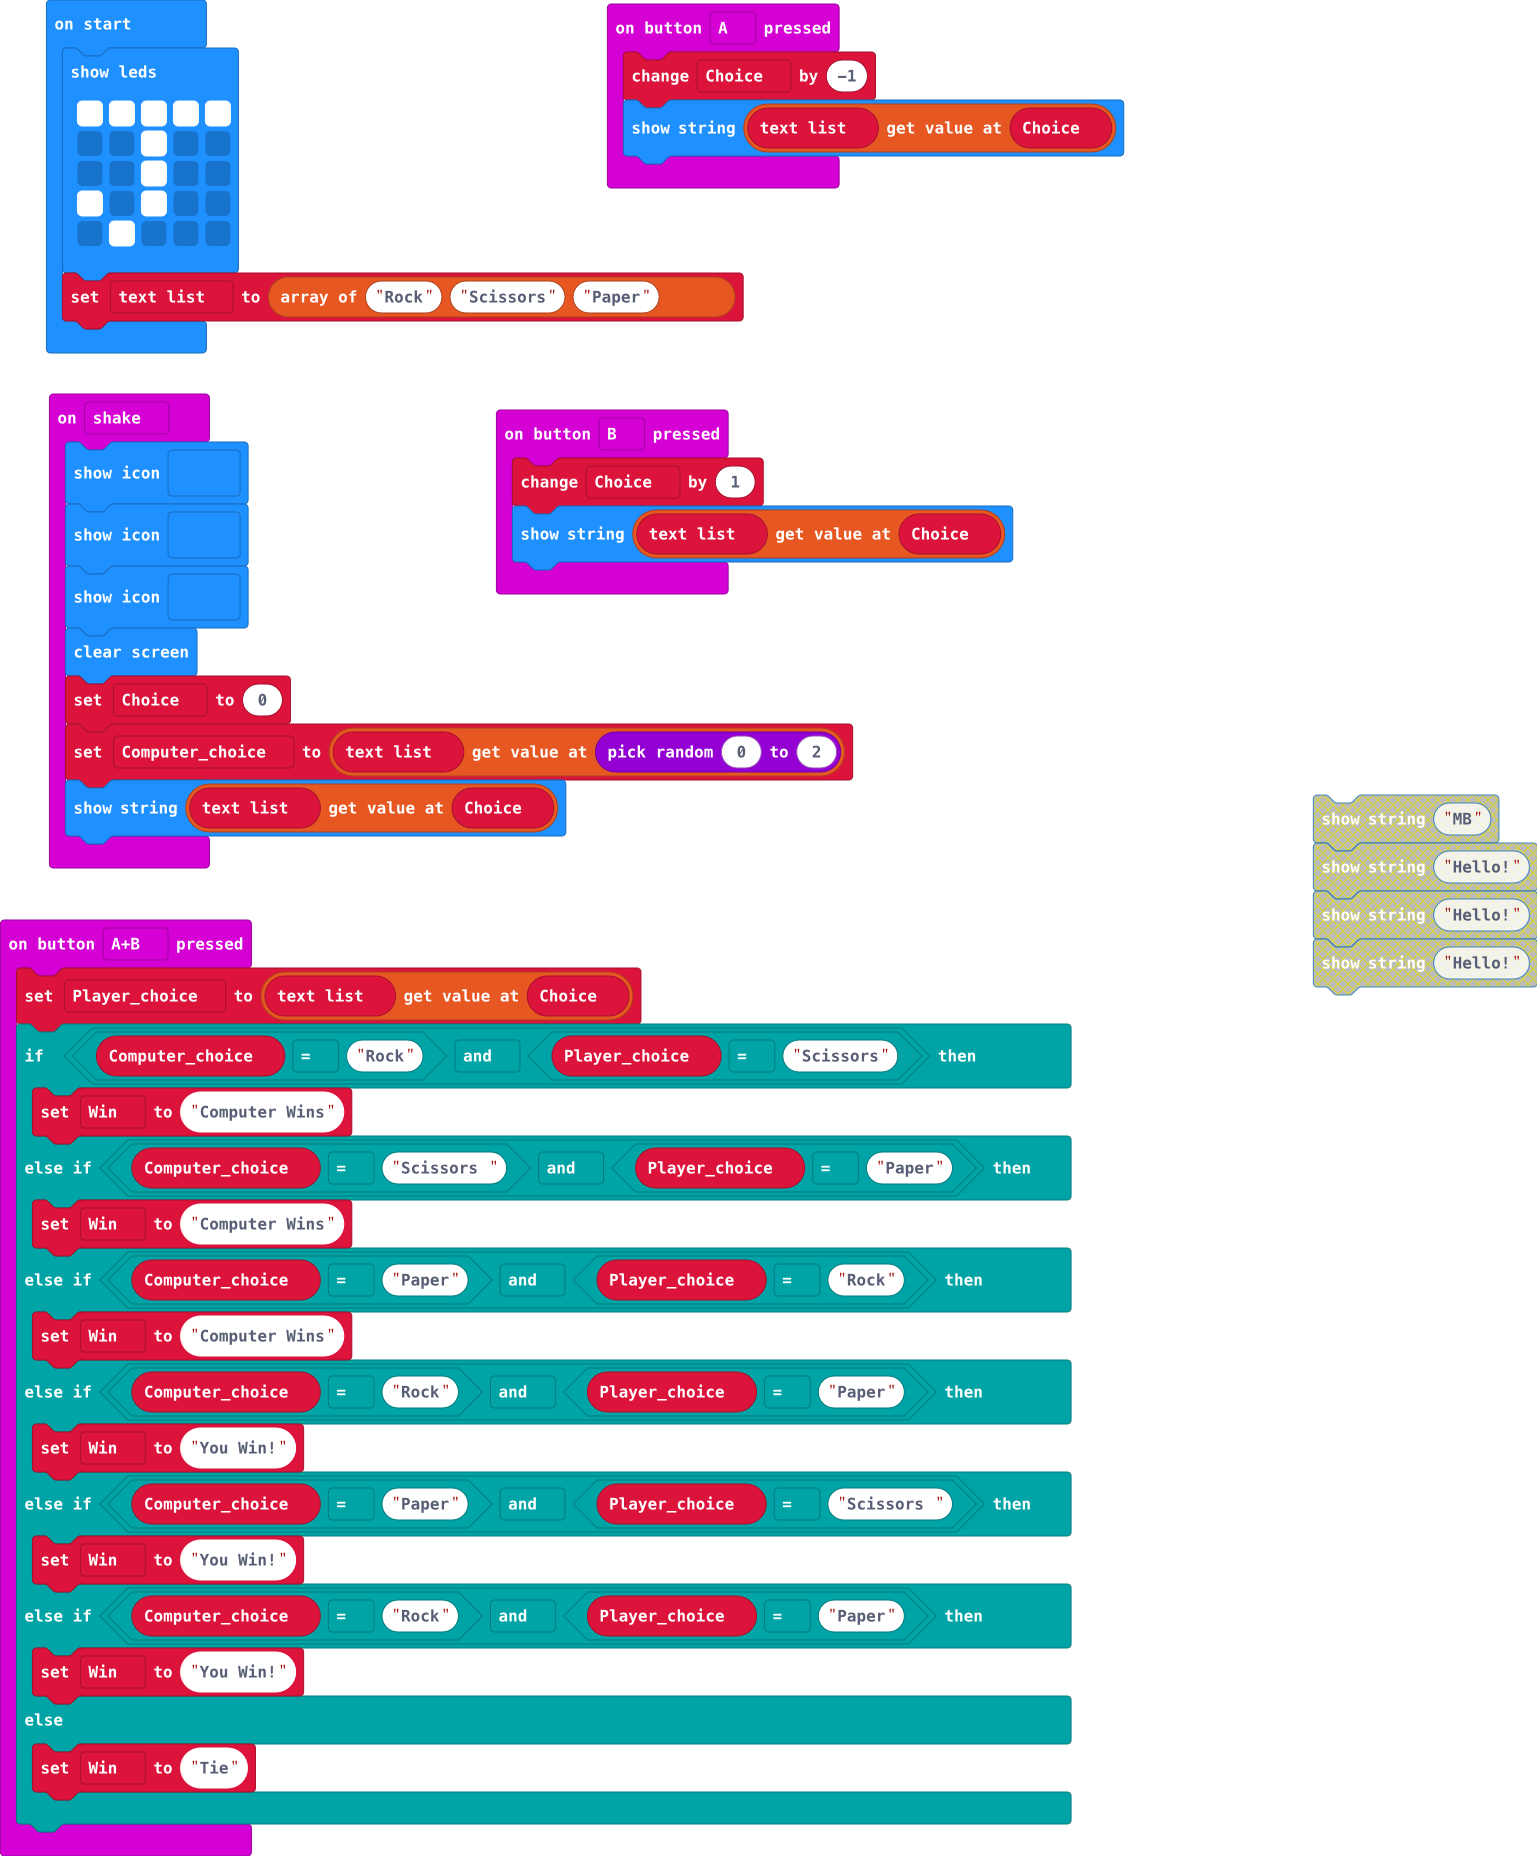
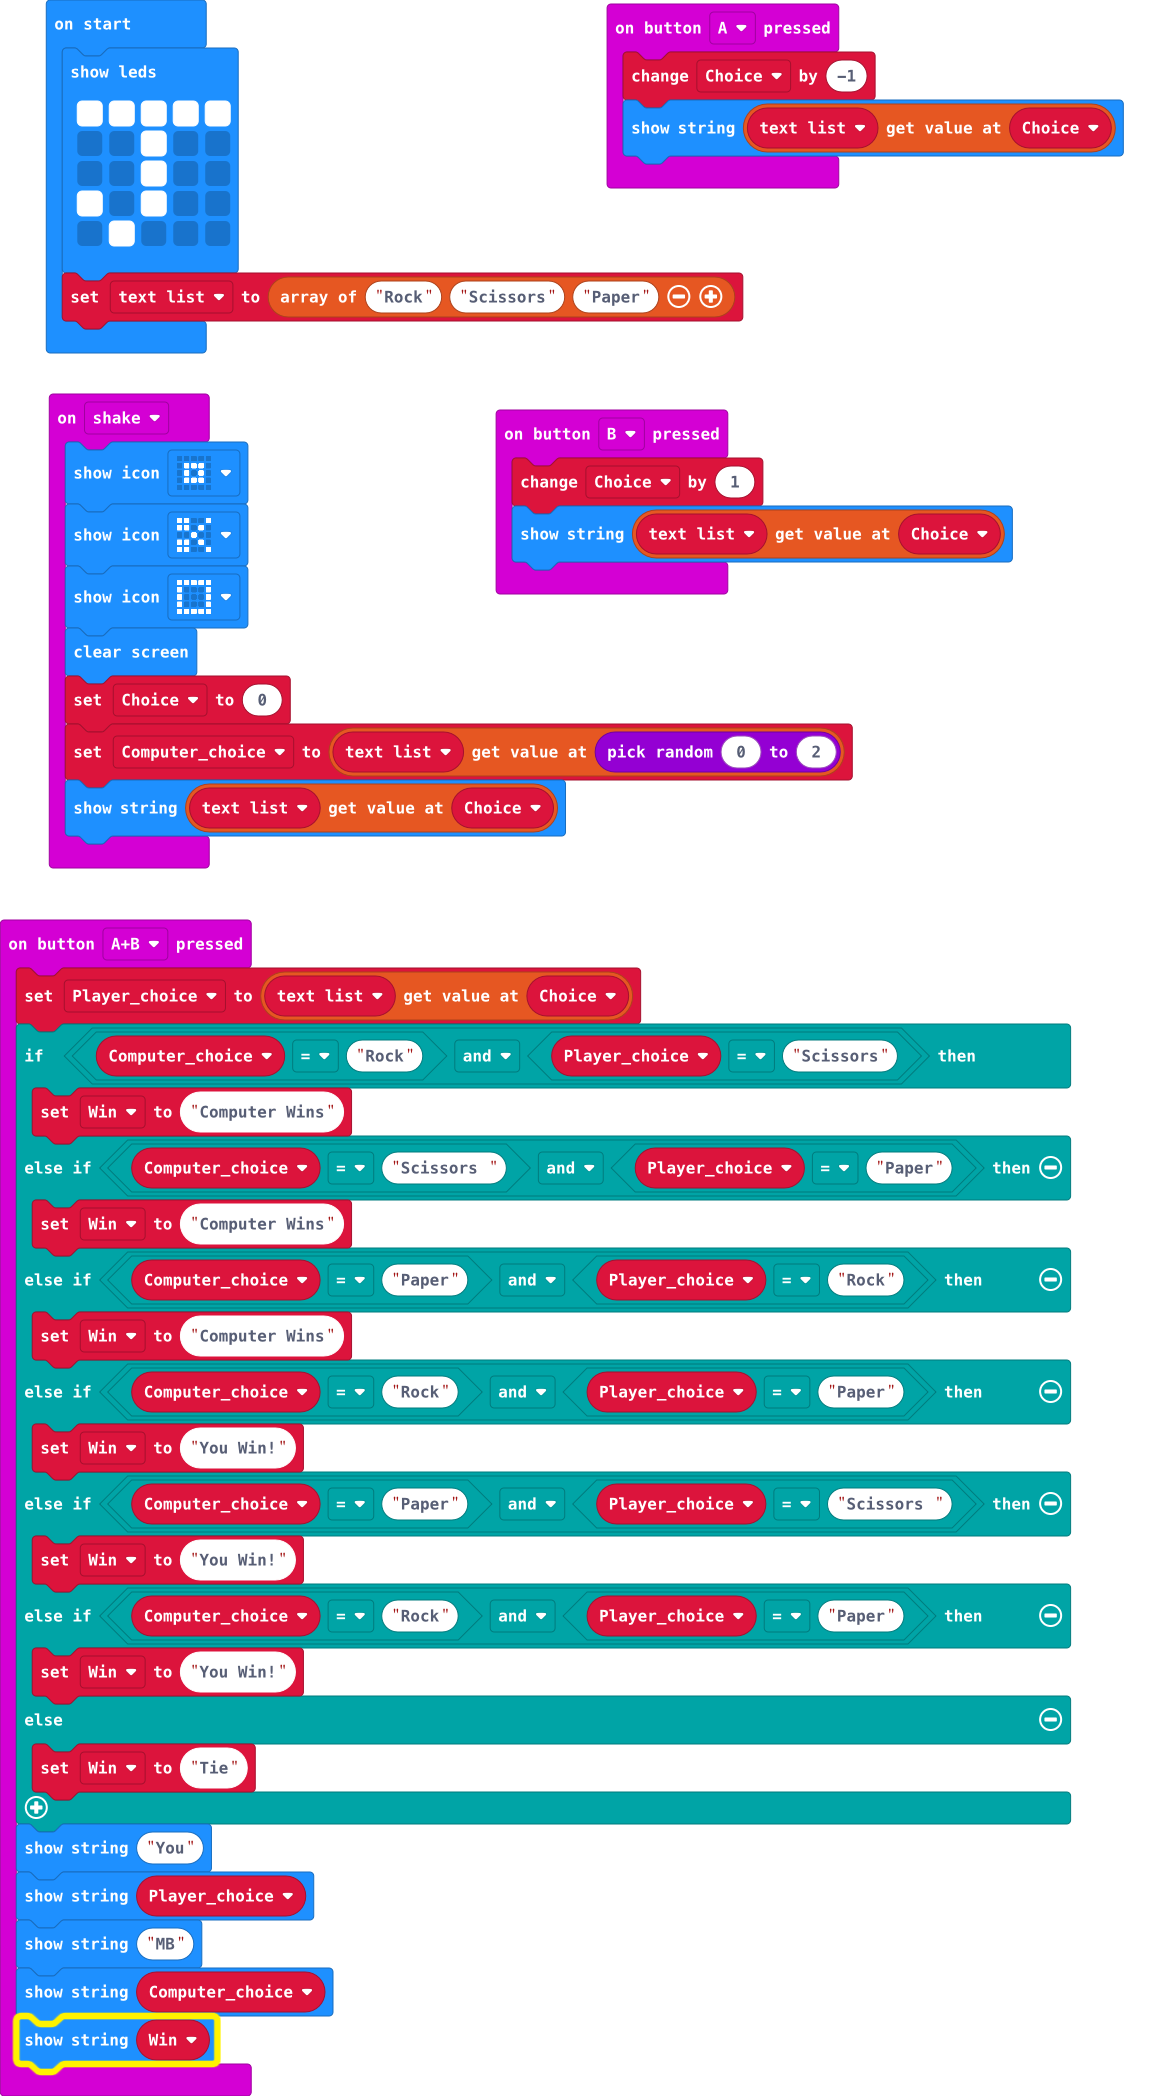
RSP Results Engine and Outcome Print Out

diff --git a/main.ts b/main.ts
@@ -19,6 +19,11 @@ input.onButtonPressed(Button.AB, function () {
     } else {
         Win = "Tie"
     }
+    basic.showString("You")
+    basic.showString(Player_choice)
+    basic.showString("MB")
+    basic.showString(Computer_choice)
+    basic.showString(Win)
 })
 input.onButtonPressed(Button.B, function () {
     Choice += 1
